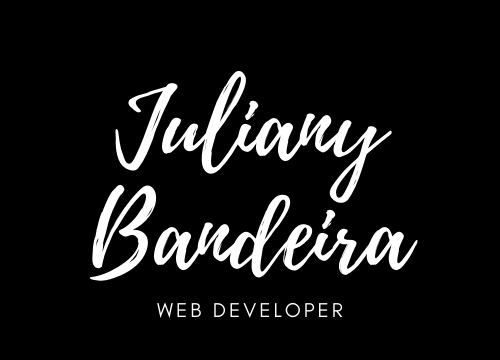
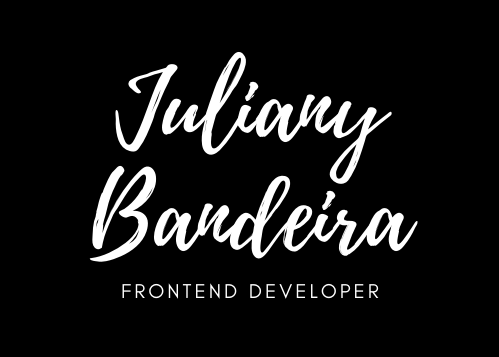
aba skils

Changed region(s): [[0.1804, 0.1232, 0.8417, 0.8936]]

diff --git a/semana-3/portfolio/index.html b/semana-3/portfolio/index.html
@@ -21,17 +21,17 @@
         </div>
 <div>
     <img class="central-img" src="img/me.webp" alt="desenho mulher no computador">
-    <p class="apresentacao">Olá, eu sou Juliany ! <br> 
-        Sempre fui apaixonada em aprender coisas novas e a busca contínua pela minha melhoria tanto pessoal como profissional sempre foi uma prioridade. Encontrei na tecnologia o ambiente perfeito para essa aprendizagem constante e novos desafios. <br> Fique a vontade para conhecer meu portfólio e sinta-se a vontade para entrar em contato comigo por aqui ou em minhas redes sociais.
+    <p class="apresentacao">Olá, eu sou Juliany <br> 
+        Desenvolvedora frontend ! <br>Sempre fui apaixonada em aprender coisas novas e a busca contínua pela minha melhoria tanto pessoal como profissional sempre foi uma prioridade. E assim encontrei na tecnologia o ambiente perfeito para esse aprendizado constante e novos desafios. <br> Sinta-se a vontade para entrar em contato comigo na aba contatos ou nos ícones abaixo.
     </p>
 </div>
 
 <div>
     <br>
-    <h2><p class="redes-sociais">Minhas redes sociais</p></h2>
+    <h2><p class="distancia-icones">Minhas redes sociais</p></h2>
 </div>
 <div>
-    <table class="redes-sociais">
+    <table class="distancia-icones">
         <th><a href="https://www.linkedin.com/in/julianybandeira/"><img class="icones" src="img/linkedin.png" alt="icone linkedin"></a></th>
         <th><a href="https://github.com/julianybandeira"><img class="icones" src="img/github.png" alt="icone github"></a></th>
         <th><a href="https://www.instagram.com/juliany_vasconcelos/"><img class="icones" src="img/instagram.png" alt="icone instagram"></a></th>

diff --git a/semana-3/portfolio/skills.html b/semana-3/portfolio/skills.html
@@ -20,6 +20,27 @@
                 <button><a href="contato.html"><b>Contato</b></a></button>
             </h2>
         </div>
+<div class="barra"></div>
+    <div>
+        <div><p class="topico">Hard Skills<br><br></p></div>
+        <table class="distancia-icones">
+            <tr>
+                <th><img class="icones-hard" src="img/javascript.png" alt="icone javascript"><br>Javascrit</th>
+                <th><img class="icones-hard" src="img/html-5 (1).png" alt="icone html"><br>HTML</th>
+                <th><img class="icones-hard" src="img/css-3.png" alt="icone css"><br>CSS</th>
+                <th><img class="icones-hard" src="img/Git-Logo-White.png" alt="icone git"><br>Git</th>
+            </tr>
+        </table>
+        <div><p class="topico"><br><br><br>Soft Skills<br><br></p></div>
+        <table class="distancia-icones">
+            <tr>
+                <th>Comunicação clara - sempre foi uma preo  Lorem ipsum dolor sit amet, consectetur adipisicing elit. Alias, saepe deleniti natus ratione ipsam inventore cumque voluptatum reprehenderit, libero, nihil magni dolor voluptate tempore sint quos eum. Nulla, aperiam possimus?</th>
+                <th>Facilidade com relacionamento interpessoal</th>
+                <th>Lorem ipsum dolor sit amet consectetur, adipisicing elit. Nihil, molestias laudantium placeat sapiente error saepe porro ipsa rem, maiores quas veritatis aspernatur sed aliquid repellendus dolore autem vel tenetur. Optio!</th>
+            </tr>
+        </table>
+
+    </div>
 
 </body>
 </html>

diff --git a/semana-3/portfolio/formacao.html b/semana-3/portfolio/formacao.html
@@ -31,11 +31,11 @@
             </tr>
             <div><p class="topico">Formação acadêmica:</p></div>
             <tr>
-                <td><p>Bacharelado em Tecnologia da Informação<br>Conclusão: 2° semestre 2024</p></td>
-                <td><p>Curso de Programação Web Full Stack<br>Conclusão: fevereiro 2022</p></td>
-                <td><p>Bacharel em Ciências Contábeis<br>Concluído: julho 2021</p></td>
-                <td><p>Bacharel em Administração de Empresas<br>Concluído: julho 2013</p></td>
-                <td><p>Técnico em Logística<br>Concluído: junho 2009</p></td>
+                <td><p><b>Bacharelado em Tecnologia da Informação</b><br>Conclusão prevista:<br>2° semestre 2024</p></td>
+                <td><p><b>Curso de Programação Web Full Stack</b><br>Conclusão prevista:<br>fevereiro 2022</p></td>
+                <td><p><b>Bacharel em Ciências Contábeis</b><br>2° semestre 2021</p></td>
+                <td><p><b>Bacharel em Administração de Empresas</b><br>2° semestre 2013</p></td>
+                <td><p><b>Técnico em Logística</b><br>2° semestre 2009</p></td>
             </tr>
             <tr>
             </tr>

diff --git a/semana-3/portfolio/contato.html b/semana-3/portfolio/contato.html
@@ -20,7 +20,21 @@
                 <button><a href="contato.html">Contato</a></button>
         </div>
 <div class="barra"></div>
+<div>
 
 
+</div>
+
+<div>
+    <br>
+    <h2><p class="distancia-icones">Minhas redes sociais</p></h2>
+</div>
+<div>
+    <table class="distancia-icones">
+        <th><a href="https://www.linkedin.com/in/julianybandeira/"><img class="icones" src="img/linkedin.png" alt="icone linkedin"></a></th>
+        <th><a href="https://github.com/julianybandeira"><img class="icones" src="img/github.png" alt="icone github"></a></th>
+        <th><a href="https://www.instagram.com/juliany_vasconcelos/"><img class="icones" src="img/instagram.png" alt="icone instagram"></a></th>
+    </table>
+</div>
 </body>
 </html>

diff --git a/semana-3/portfolio/style.css b/semana-3/portfolio/style.css
@@ -63,7 +63,7 @@ div>p{
     font-size: 30px;
 }
 
-.redes-sociais {
+.distancia-icones {
     margin: 0 auto;
     text-align: center;
 }
@@ -80,17 +80,26 @@ div>p{
     padding-inline: 25px;
 }
 
+.icones-hard{
+    width: 100px;
+    margin: 0 auto;
+    text-align: center;
+}
+
 .logos-ensino{
     width: 200px;
-    padding-inline: 30px;
+    padding-inline: 10px;
     border-radius: 5px;
     background: white;
 }
 
 table{
+    color: white;
     text-align: center;
     margin: 100px;
     font-size: 15px;
+    padding-left: 20px;
+    padding-right: 20px;
 }
 
 .topico{
